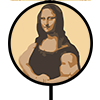
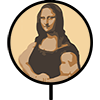
1. Clustering with number via image assets; 2. Changing Parameter of Clustering to show earlier all entries; 3. Forcing Portrait orientation

Changed region(s): [[0.06, 0.0, 0.93, 0.87], [0.18, 0.48, 0.27, 0.6], [0.48, 0.99, 0.54, 1.0]]

diff --git a/lib/Files/mapHelper.dart b/lib/Files/mapHelper.dart
@@ -2,87 +2,21 @@ import 'dart:async';
 import 'dart:io';
 import 'dart:typed_data';
 import 'dart:ui';
-
+import 'package:image/image.dart' as images;
 import 'package:fluster/fluster.dart';
 import 'package:flutter/material.dart';
 import 'package:google_maps_flutter/google_maps_flutter.dart';
-
+import 'package:flutter/services.dart' show ByteData, rootBundle;
 import 'mapMarker.dart';
 
 /// In here we are encapsulating all the logic required to get marker icons from url images
 /// and to show clusters using the [Fluster] package.
 class MapHelper {
 
-  static Future<BitmapDescriptor> getMarkerImageFromUrl() async {
-    return BitmapDescriptor.fromAssetImage(const ImageConfiguration(), 'images/c_marker_lisa_200px.png');
-  }
-
-  /// Draw a [clusterColor] circle with the [clusterSize] text inside that is [width] wide.
-  ///
-  /// Then it will convert the canvas to an image and generate the [BitmapDescriptor]
-  /// to be used on the cluster marker icons.
-  static Future<BitmapDescriptor> _getClusterMarker(
-      int clusterSize,
-      Color clusterColor,
-      Color textColor,
-      int width,
-      ) async {
-    final PictureRecorder pictureRecorder = PictureRecorder();
-    final Canvas canvas = Canvas(pictureRecorder);
-    final Paint paint = Paint()..color = clusterColor;
-    final TextPainter textPainter = TextPainter(
-      textDirection: TextDirection.ltr,
-    );
-
-    final double radius = width / 2;
-
-    canvas.drawCircle(
-      Offset(radius, radius),
-      radius,
-      paint,
-    );
-
-    textPainter.text = TextSpan(
-      text: clusterSize.toString(),
-      style: TextStyle(
-        fontSize: radius - 5,
-        fontWeight: FontWeight.bold,
-        color: textColor,
-      ),
-    );
-
-    textPainter.layout();
-    textPainter.paint(
-      canvas,
-      Offset(radius - textPainter.width / 2, radius - textPainter.height / 2),
-    );
-
-    final image = await pictureRecorder.endRecording().toImage(
-      radius.toInt() * 2,
-      radius.toInt() * 2,
-    );
-    final data = await image.toByteData(format: ImageByteFormat.png);
-
-    return BitmapDescriptor.fromBytes(data!.buffer.asUint8List());
-  }
-
-  /// Resizes the given [imageBytes] with the [targetWidth].
-  ///
-  /// We don't want the marker image to be too big so we might need to resize the image.
-  static Future<Uint8List> _resizeImageBytes(
-      Uint8List imageBytes,
-      int targetWidth,
-      ) async {
-    final Codec imageCodec = await instantiateImageCodec(
-      imageBytes,
-      targetWidth: targetWidth,
-    );
-
-    final FrameInfo frameInfo = await imageCodec.getNextFrame();
-
-    final data = await frameInfo.image.toByteData(format: ImageByteFormat.png);
-
-    return data!.buffer.asUint8List();
+  static Future<images.Image> setMarkerImage() async {
+    ByteData data = await rootBundle.load('images/c_marker_cluster_105px.png');
+    List<int> bytes = Uint8List.view(data.buffer);
+    return images.decodeImage(bytes)!;
   }
 
   /// Inits the cluster manager with all the [MapMarker] to be displayed on the map.
@@ -94,12 +28,12 @@ class MapHelper {
       int minZoom,
       int maxZoom,
       ) async {
-    BitmapDescriptor icon = await BitmapDescriptor.fromAssetImage(const ImageConfiguration(), 'images/c_marker_cluster_105px.png');
+    Map<int,BitmapDescriptor> icons = await getClusterIcons();
     return Fluster<MapMarker>(
       minZoom: minZoom,
       maxZoom: maxZoom,
       radius: 150,
-      extent: 2048,
+      extent: 1024,
       nodeSize: 64,
       points: markers,
       createCluster: (
@@ -114,12 +48,51 @@ class MapHelper {
             clusterId: cluster.id,
             pointsSize: cluster.pointsSize,
             childMarkerId: cluster.childMarkerId,
-            icon: icon,
+            icon: getClusterIcon(cluster.pointsSize!, icons)!,
             onMarkerTap: () {  },
           ),
     );
   }
 
+  static BitmapDescriptor? getClusterIcon(int size, Map<int, BitmapDescriptor> icons) {
+    if (size == 2) {
+      return icons[2];
+    } else if (size == 3) {
+      return icons[3];
+    } else if (size == 4) {
+      return icons[4];
+    } else if (size == 5) {
+      return icons[5];
+    } else if (size < 10) {
+      return icons[10];
+    } else if (size < 25) {
+      return icons[25];
+    } else if (size < 50) {
+      return icons[50];
+    } else if (size <= 99) {
+      return icons[99];
+    } else if (size >= 100) {
+      return icons[100];
+    } else {
+      return icons[0];
+    }
+  }
+
+  static Future<Map<int, BitmapDescriptor>> getClusterIcons() async{
+    Map<int, BitmapDescriptor> icons = {};
+    icons[0] = await BitmapDescriptor.fromAssetImage(const ImageConfiguration(), 'images/c_marker_cluster_105px.png');
+    icons[2] = await BitmapDescriptor.fromAssetImage(const ImageConfiguration(), 'images/c_marker_cluster2.png');
+    icons[3] = await BitmapDescriptor.fromAssetImage(const ImageConfiguration(), 'images/c_marker_cluster3.png');
+    icons[4] = await BitmapDescriptor.fromAssetImage(const ImageConfiguration(), 'images/c_marker_cluster4.png');
+    icons[5] = await BitmapDescriptor.fromAssetImage(const ImageConfiguration(), 'images/c_marker_cluster5.png');
+    icons[10] = await BitmapDescriptor.fromAssetImage(const ImageConfiguration(), 'images/c_marker_cluster10.png');
+    icons[25] = await BitmapDescriptor.fromAssetImage(const ImageConfiguration(), 'images/c_marker_cluster25.png');
+    icons[50] = await BitmapDescriptor.fromAssetImage(const ImageConfiguration(), 'images/c_marker_cluster50.png');
+    icons[99] = await BitmapDescriptor.fromAssetImage(const ImageConfiguration(), 'images/c_marker_cluster100.png');
+    icons[100] = await BitmapDescriptor.fromAssetImage(const ImageConfiguration(), 'images/c_marker_cluster100+.png');
+    print("${icons.length}");
+    return icons;
+  }
   /// Gets a list of markers and clusters that reside within the visible bounding box for
   /// the given [currentZoom]. For more info check [Fluster.clusters].
   static List<Marker> getClusterMarkers(

diff --git a/lib/main.dart b/lib/main.dart
@@ -2,6 +2,7 @@ import 'package:buff_lisa/0_ScreenSignIn/login.dart';
 import 'package:buff_lisa/0_ScreenSignIn/secure.dart';
 import 'package:flutter/foundation.dart';
 import 'package:flutter/material.dart';
+import 'package:flutter/services.dart';
 import 'package:flutter_secure_storage/flutter_secure_storage.dart';
 import 'package:google_maps_flutter/google_maps_flutter.dart';
 import 'dart:async';
@@ -30,7 +31,10 @@ class MyApp extends StatelessWidget {
 
   @override
   Widget build(BuildContext context) {
-
+    SystemChrome.setPreferredOrientations([
+      DeviceOrientation.portraitUp,
+      DeviceOrientation.portraitDown,
+    ]);
     return  MaterialApp(
       title: 'Flutter Google Maps Demo',
       initialRoute: '/',

diff --git a/lib/Files/io.dart b/lib/Files/io.dart
@@ -37,7 +37,7 @@ class IO {
 
   void initFluster() {
     _isMapLoading = true;
-    MapHelper.initClusterManager(markers.markers, 0, 19).then((value) => fluster = value);
+    MapHelper.initClusterManager(markers.markers, 0, 16).then((value) => fluster = value);
     _isMapLoading = false;
   }
 
